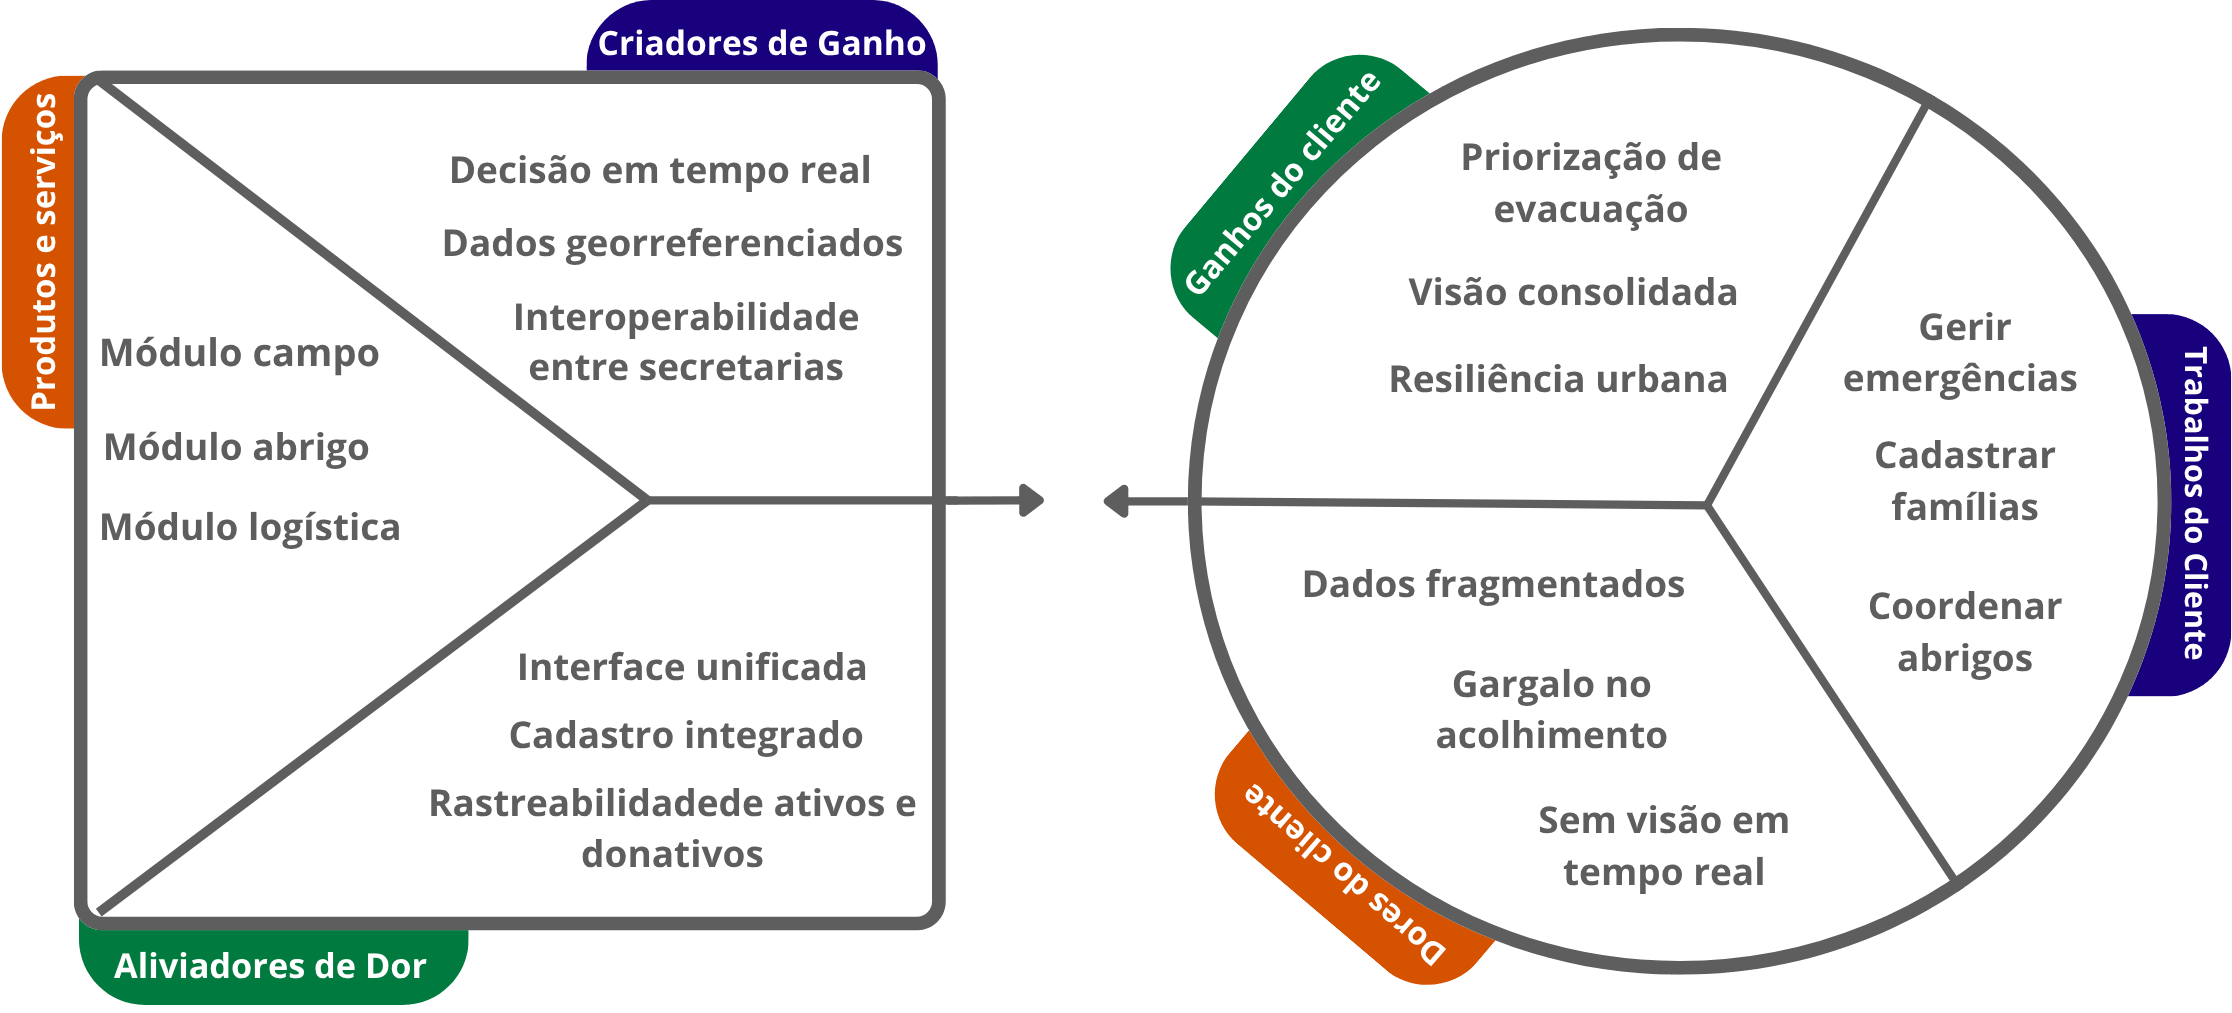
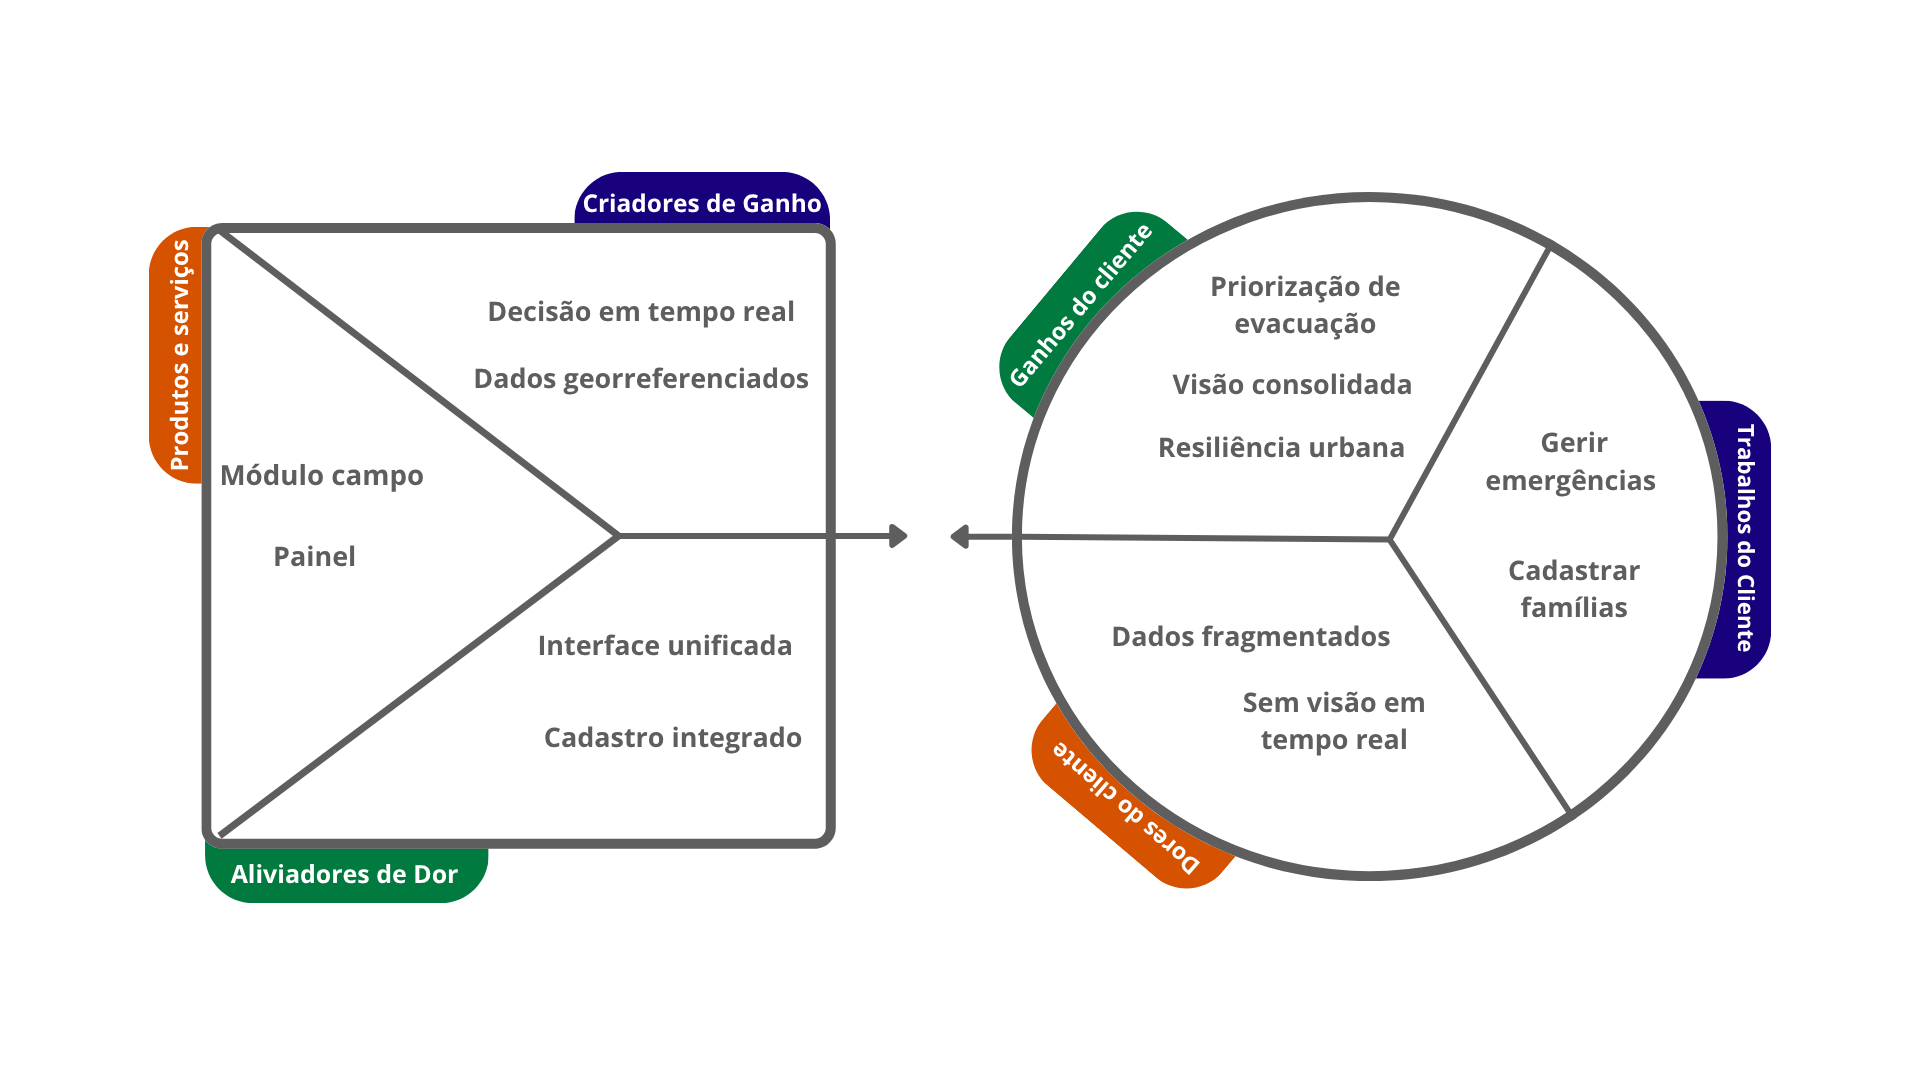
docs(wad): ajustando seção 2.1.4 canvas proposta de valor

diff --git a/documentos/wad.md b/documentos/wad.md
@@ -122,13 +122,9 @@ Gerir emergências: Coordenar toda a resposta a desastres naturais e tecnológic
 
 Cadastrar famílias: Registrar moradores de áreas de risco com dados socioestruturais completos, composição familiar, perfil de vulnerabilidade, doenças crônicas, animais de estimação e localização exata do imóvel.
 
-Coordenar abrigos: Controlar a entrada, permanência e saída de desabrigados nos centros de acolhimento emergencial, garantindo triagem de saúde, preenchimento do prontuário SUAS e gestão de vagas em tempo real.
-
 #### Dores
 
 Dados fragmentados: As informações de cadastro, abrigo e logística existem em papéis, planilhas e sistemas separados, sem integração. Isso torna impossível cruzar dados de geolocalização com perfis de vulnerabilidade no momento crítico da evacuação.
-
-Gargalo no acolhimento: Não há ferramenta unificada para realizar a triagem de saúde, registrar a composição familiar e identificar necessidades de assistência social no momento da chegada ao abrigo, gerando filas e perda de informação.
 
 Sem visão em tempo real: A ausência de uma interface única impede que gestores vejam o cenário de crise consolidado, dificultando o planejamento preventivo e a tomada de decisão durante eventos extremos.
 
@@ -147,11 +143,7 @@ Resiliência urbana: A capacidade de resposta mais eficiente a desastres fortale
 
  Módulo de campo: Aplicação otimizada para tablets e celulares usada pelos agentes em campo. Permite o cadastro completo de famílias com captura obrigatória de GPS, registro fotográfico do imóvel, identificação de vulnerabilidades e logística de emergência (animais, veículo, destino de evacuação).
 
-Módulo de abrigo: Ferramenta operacional para os centros de acolhimento. Realiza o check-in vinculado ao cadastro socioestrutural, preenche o prontuário SUAS, faz triagem multidisciplinar e controla as vagas disponíveis em tempo real.
-
-Módulo de logística: Painel administrativo para gestão de donativos (alimentos, higiene, medicamentos), controle de bens patrimoniais sob custódia da Defesa Civil e registro de animais resgatados, como pets e aves domésticas, com fichas de saúde e guarda responsável.
-
-Dashboard / Painel: Interface desktop com mapas de calor, pontos georreferenciados, filtros dinâmicos por setor de risco, bairro, idade e perfil de vulnerabilidade, além de exportação de dados em PDF e CSV para suporte ao Plano de Contingência municipal.
+ Painel: Interface desktop com mapas de calor, pontos georreferenciados, filtros dinâmicos por setor de risco, bairro, idade e perfil de vulnerabilidade.
 
 #### Aliviadores de Dor
 
@@ -159,15 +151,11 @@ Interface unificada: Substitui papéis, planilhas e sistemas isolados por uma ú
 
 Cadastro integrado: O registro feito em campo alimenta automaticamente o módulo de abrigo e o painel de visualização, garantindo que todos os setores da Defesa Civil e secretarias parceiras trabalhem com os mesmos dados atualizados.
 
-Rastreabilidade de ativos e donativos: Cada bem patrimonial, item de doação e animal resgatado possui registro próprio com histórico, permitindo controle de entrada, distribuição e devolução sem perdas ou duplicidades.
-
 #### Criadores de Ganho
 
 Decisão em tempo real: Com todos os dados centralizados e atualizados continuamente, gestores conseguem alocar equipes, redirecionar recursos e acionar protocolos com base em informações confiáveis e não em estimativas ou dados desatualizados.
 
 Dados georreferenciados: A captura obrigatória de coordenadas GPS no momento do cadastro transforma cada família em um ponto no mapa, permitindo análise espacial de densidade de vulnerabilidade, planejamento de rotas de evacuação e identificação de áreas críticas por região.
-
-Interoperabilidade entre secretarias: A plataforma serve como ponto de convergência entre a Defesa Civil, a Secretaria de Habitação, a Saúde e a Assistência Social, eliminando a necessidade de repassar dados manualmente entre órgãos e garantindo que todas as partes atuem com a mesma visão do cenário.
 
 ### 2.1.5. Matriz de Riscos do Projeto (sprint 1)
 
